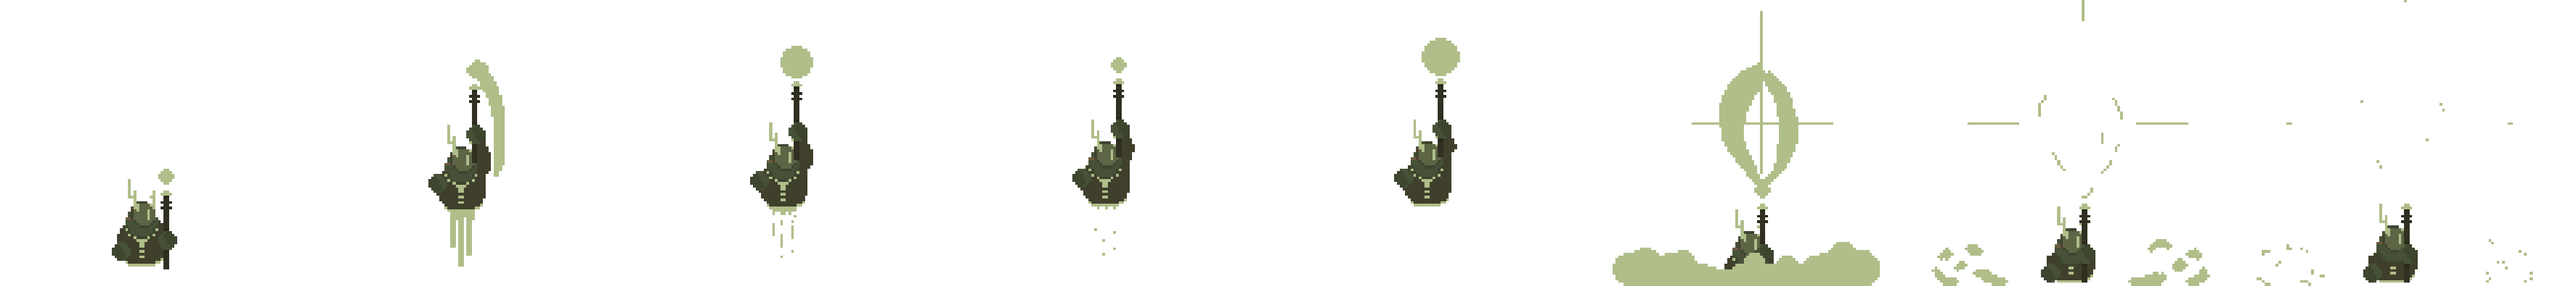
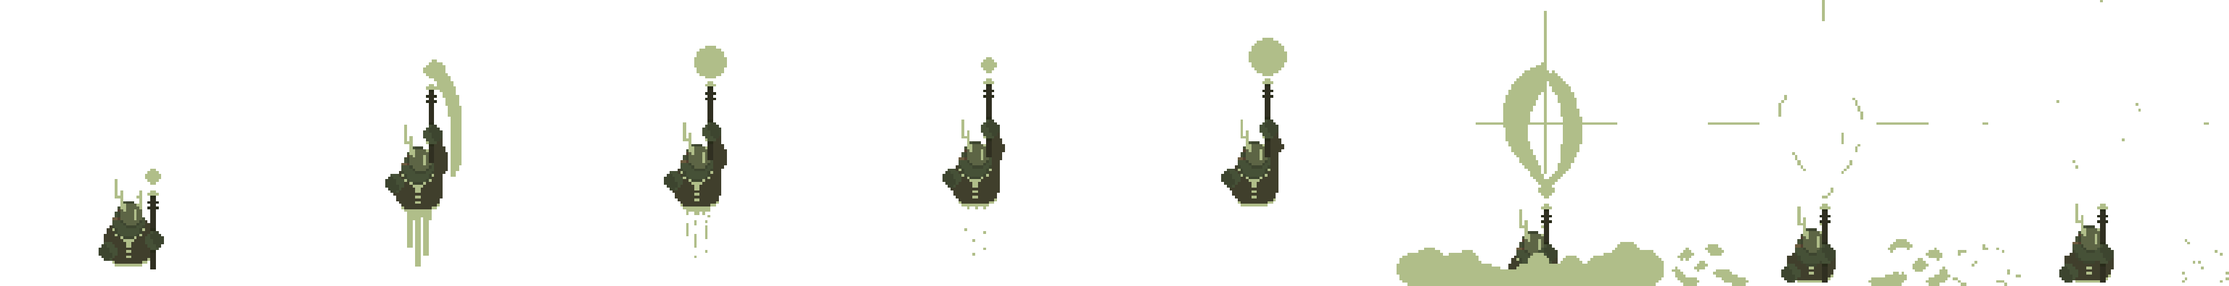
Preview animaciones Astraeus

diff --git a/components/character.vue b/components/character.vue
@@ -1,134 +1,165 @@
-<script lang="ts"></script>
+<script lang="ts">
+export default {
+  data() {
+    return {
+      width: '',
+      maxWidth: '',
+      height: '',
+      animation: '',
+      sprite: '',
+
+      movement: '',
+    };
+  },
+  methods: {
+    appear() {
+      this.width = '486px';
+      this.height = '500px';
+      this.maxWidth = '-3888px';
+      this.animation = 'animation 1s steps(8) infinite';
+      this.sprite = 'url(' + new URL(`/src/img/characters/astraeus/appear.png`, import.meta.url) + ')';
+
+      this.movement = '';
+    },
+    idle() {
+      this.width = '113px';
+      this.height = '201px';
+      this.maxWidth = '-565px';
+      this.animation = 'animation .75s steps(5) infinite';
+      this.sprite = 'url(' + new URL(`/src/img/characters/astraeus/idle.png`, import.meta.url) + ')';
+
+      this.movement = '';
+    },
+    move() {
+      this.width = '113px';
+      this.height = '201px';
+      this.maxWidth = '-565px';
+      this.animation = 'animation .5s steps(5) infinite';
+      this.sprite = 'url(' + new URL(`/src/img/characters/astraeus/move.png`, import.meta.url) + ')';
+
+      this.movement = 'movement 1.5s linear infinite';
+    },
+    attack() {
+      this.width = '477px';
+      this.height = '220px';
+      this.maxWidth = '-3816px';
+      this.animation = 'animation 1s steps(8) infinite';
+      this.sprite = 'url(' + new URL(`/src/img/characters/astraeus/attack.png`, import.meta.url) + ')';
+
+      this.movement = '';
+    },
+    hit() {
+      this.width = '113px';
+      this.height = '201px';
+      this.maxWidth = '-565px';
+      this.animation = 'animation .75s steps(5) infinite';
+      this.sprite = 'url(' + new URL(`/src/img/characters/astraeus/hit.png`, import.meta.url) + ')';
+
+      this.movement = '';
+    },
+    death() {
+      this.width = '113px';
+      this.height = '286px';
+      this.maxWidth = '-678px';
+      this.animation = 'animation .75s steps(6) infinite';
+      this.sprite = 'url(' + new URL(`/src/img/characters/astraeus/death.png`, import.meta.url) + ')';
+
+      this.movement = '';
+    },
+  },
+};
+</script>
 
 <template>
-  <section>
-    <div class="appear"></div>
-    <div class="idle"></div>
-    <div class="move"></div>
-    <div class="attack"></div>
-    <div class="hit"></div>
-    <div class="death"></div>
+  <section class="stage">
+    <div class="hitbox">
+      <div class="character"></div>
+    </div>
+  </section>
+
+  <section class="actions">
+    <button @click.prevent="appear()">Appear</button>
+    <button @click.prevent="idle()">Idle</button>
+    <button @click.prevent="move()">Move</button>
+    <button @click.prevent="attack()">Attack</button>
+    <button @click.prevent="hit()">Hit</button>
+    <button @click.prevent="death()">Death</button>
   </section>
 </template>
 
 <style lang="scss">
-section {
+.actions {
+  position: absolute;
+  bottom: 5%;
+  display: flex;
+  gap: 2rem;
+
+  button {
+    border: 1px solid black;
+    padding: 0.5rem 1rem;
+
+    &:hover {
+      background-color: lightgray;
+    }
+  }
+}
+
+.stage {
+  width: 600px;
+  height: 600px;
   display: flex;
   justify-content: center;
   align-items: end;
-  gap: 2rem;
+  padding-bottom: 4.5%;
+
+  background-image: url('src/img/stages/fondo.png');
+  background-repeat: no-repeat;
+  background-position: bottom;
 }
 
-// GENERAL
-div {
-  background-repeat: no-repeat;
-  background-size: cover;
-  margin: 0;
-  padding: 0;
+.hitbox {
+  width: v-bind(width);
+  height: v-bind(height);
+
   display: flex;
   justify-content: center;
   align-items: center;
+  transform: scale(1);
+
+  animation: v-bind(movement);
+
+  .character {
+    position: relative;
+    z-index: 11;
+    width: 100%;
+    height: 100%;
+    background: v-bind(sprite);
+
+    background-repeat: no-repeat;
+    background-size: cover;
+
+    animation: v-bind(animation);
+  }
 }
 
-// APARICION --
-.appear {
-  animation: appear 1s steps(8) /*Numero de sprites que hay en la iamgen*/ infinite;
-  width: 486px; // Ancho completo de la imagen entre el nuemro de sprites
-  height: 500px; // Alto completo de la imagen
-  background: url('/src/img/characters/astraeus/appear.png'); // Cambiar ultima parte de la URL dependiendo de la variable
-}
-
-@keyframes appear {
+@keyframes animation {
   0% {
     background-position: 0px;
   }
   100% {
-    background-position: -4492px; // Ancho completo de la imagen
+    background-position: v-bind(maxWidth);
   }
 }
 
-// ESTATICO
-.idle {
-  animation: idle 0.75s steps(5) /*Numero de sprites que hay en la imagen*/ infinite;
-  width: 551.4px; // Ancho del sprite mas ancho
-  height: 201px; // Alto completo de la imagen
-  background: url('/src/img/characters/astraeus/idle.png'); // Cambiar ultima parte de la URL dependiendo de la variable
-}
-
-@keyframes idle {
+@keyframes movement {
   0% {
-    background-position: 0px;
+    transform: translateX(-100%);
+  }
+  50% {
+    transform: translateX(100%);
   }
   100% {
-    background-position: -2757px; // Ancho completo de la imagen
-  }
-}
-
-// MOVIMIENTO
-.move {
-  animation: move 0.5s steps(5) /*Numero de sprites que hay en la imagen*/ infinite;
-  width: 551.4px; // Ancho del sprite mas ancho
-  height: 201px; // Alto completo de la imagen
-  background: url('/src/img/characters/astraeus/move.png'); // Cambiar ultima parte de la URL dependiendo de la variable
-}
-
-@keyframes move {
-  0% {
-    background-position: 0px;
-  }
-  100% {
-    background-position: -2757px; // Ancho completo de la imagen
-  }
-}
-
-// ATAQUE
-.attack {
-  animation: attack 1s steps(8) /*Numero de sprites que hay en la imagen*/ infinite;
-  width: 550px; // Ancho del sprite mas ancho
-  height: 220px; // Alto completo de la imagen
-  background: url('/src/img/characters/astraeus/attack.png'); // Cambiar ultima parte de la URL dependiendo de la variable
-}
-
-@keyframes attack {
-  0% {
-    background-position: 0px;
-  }
-  100% {
-    background-position: -4411px; // Ancho completo de la imagen
-  }
-}
-
-// GOLPEADO
-.hit {
-  animation: hit 0.75s steps(5) /*Numero de sprites que hay en la imagen*/ infinite;
-  width: 551.4px; // Ancho del sprite mas ancho
-  height: 201px; // Alto completo de la imagen
-  background: url('/src/img/characters/astraeus/hit.png'); // Cambiar ultima parte de la URL dependiendo de la variable
-}
-
-@keyframes hit {
-  0% {
-    background-position: 0px;
-  }
-  100% {
-    background-position: -2757px; // Ancho completo de la imagen
-  }
-}
-
-// MUERTE
-.death {
-  animation: death 1s steps(6) /*Numero de sprites que hay en la imagen*/ infinite;
-  width: 551.3px; // Ancho del sprite mas ancho
-  height: 286px; // Alto completo de la imagen
-  background: url('/src/img/characters/astraeus/death.png'); // Cambiar ultima parte de la URL dependiendo de la variable
-}
-
-@keyframes death {
-  0% {
-    background-position: 0px;
-  }
-  100% {
-    background-position: -3308px; // Ancho completo de la imagen
+    transform: translateX(-100%);
   }
 }
 </style>

diff --git a/pages/ejemplo.vue b/pages/ejemplo.vue
@@ -1,25 +1,3 @@
-<script lang="ts">
-import characters from '../utils/characters';
-
-export default {
-  data() {
-    return {
-      characterList: characters,
-    };
-  },
-};
-</script>
-
 <template>
-  <!-- <div class="stage h-screen w-full"></div> -->
   <Character />
 </template>
-
-<style lang="scss">
-.stage {
-  background-image: url('src/img/stages/fondo.png');
-  background-repeat: no-repeat;
-  background-size: cover;
-  background-position: bottom;
-}
-</style>
